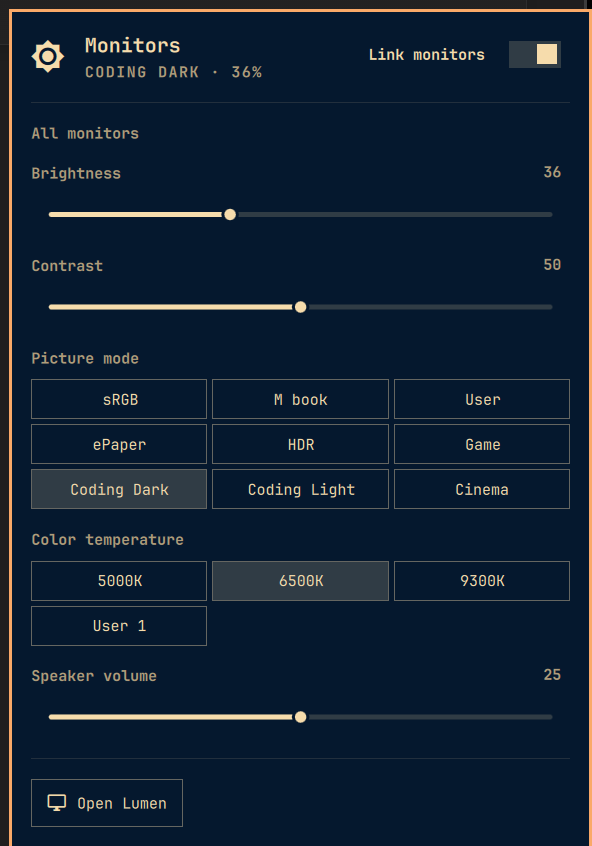
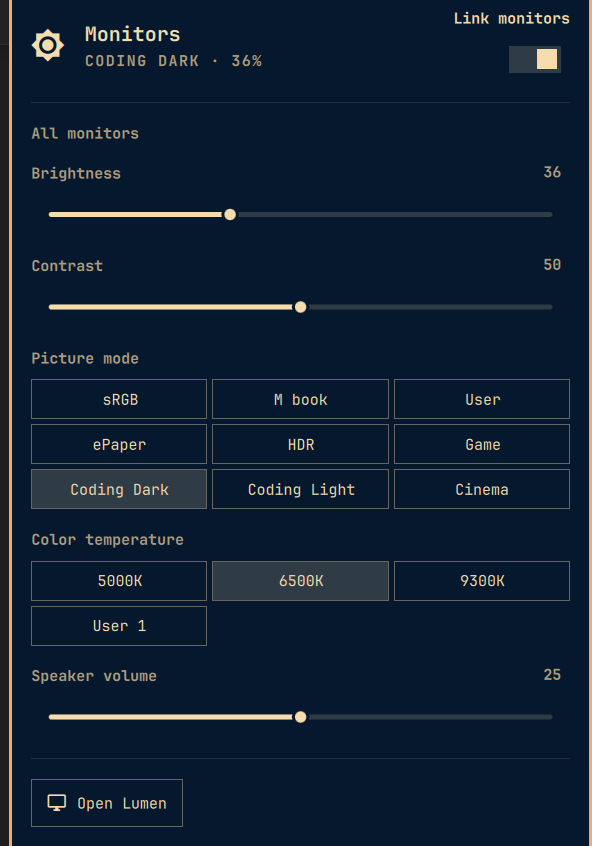
Put the Link label above its switch

Changed region(s): [[0.0, 0.0, 1.0, 0.0922], [0.6385, 0.0615, 0.8209, 0.0922], [0.3953, 0.0615, 0.4561, 0.0922]]

diff --git a/Panel.qml b/Panel.qml
@@ -333,7 +333,7 @@ Panel {
           // ---------- Hero ----------
           Item {
             width: parent.width
-            implicitHeight: Math.max(heroIcon.implicitHeight, heroLabels.implicitHeight)
+            implicitHeight: Math.max(heroIcon.implicitHeight, heroLabels.implicitHeight, linkControl.visible ? linkControl.implicitHeight : 0)
 
             Text {
               id: heroIcon
@@ -381,13 +381,14 @@ Panel {
             }
 
             // Link sits in the title row's top-right corner, only when there
-            // is more than one monitor to link. The label clicks too.
-            Row {
+            // is more than one monitor to link, label above the switch. The label
+            // clicks too.
+            Column {
               id: linkControl
               visible: root.monitors.length > 1
               anchors.right: parent.right
               anchors.top: parent.top
-              spacing: Style.space(10)
+              spacing: Style.space(6)
 
               Text {
                 textFormat: Text.PlainText
@@ -396,7 +397,7 @@ Panel {
                 font.family: root.fontFamily
                 font.pixelSize: Style.font.caption
                 font.bold: true
-                anchors.verticalCenter: parent.verticalCenter
+                anchors.right: parent.right
 
                 MouseArea {
                   anchors.fill: parent
@@ -412,7 +413,7 @@ Panel {
                 foreground: root.foreground
                 accent: Commons.Color.accent
                 hasCursor: root.isCursor("link", undefined, -1)
-                anchors.verticalCenter: parent.verticalCenter
+                anchors.right: parent.right
                 onToggled: root.linked = !root.linked
                 onHovered: function(h) { if (h) root.setCursor("link", undefined, -1) }
                 onHasCursorChanged: if (hasCursor) root.ensureCursorVisible(linkControl)
